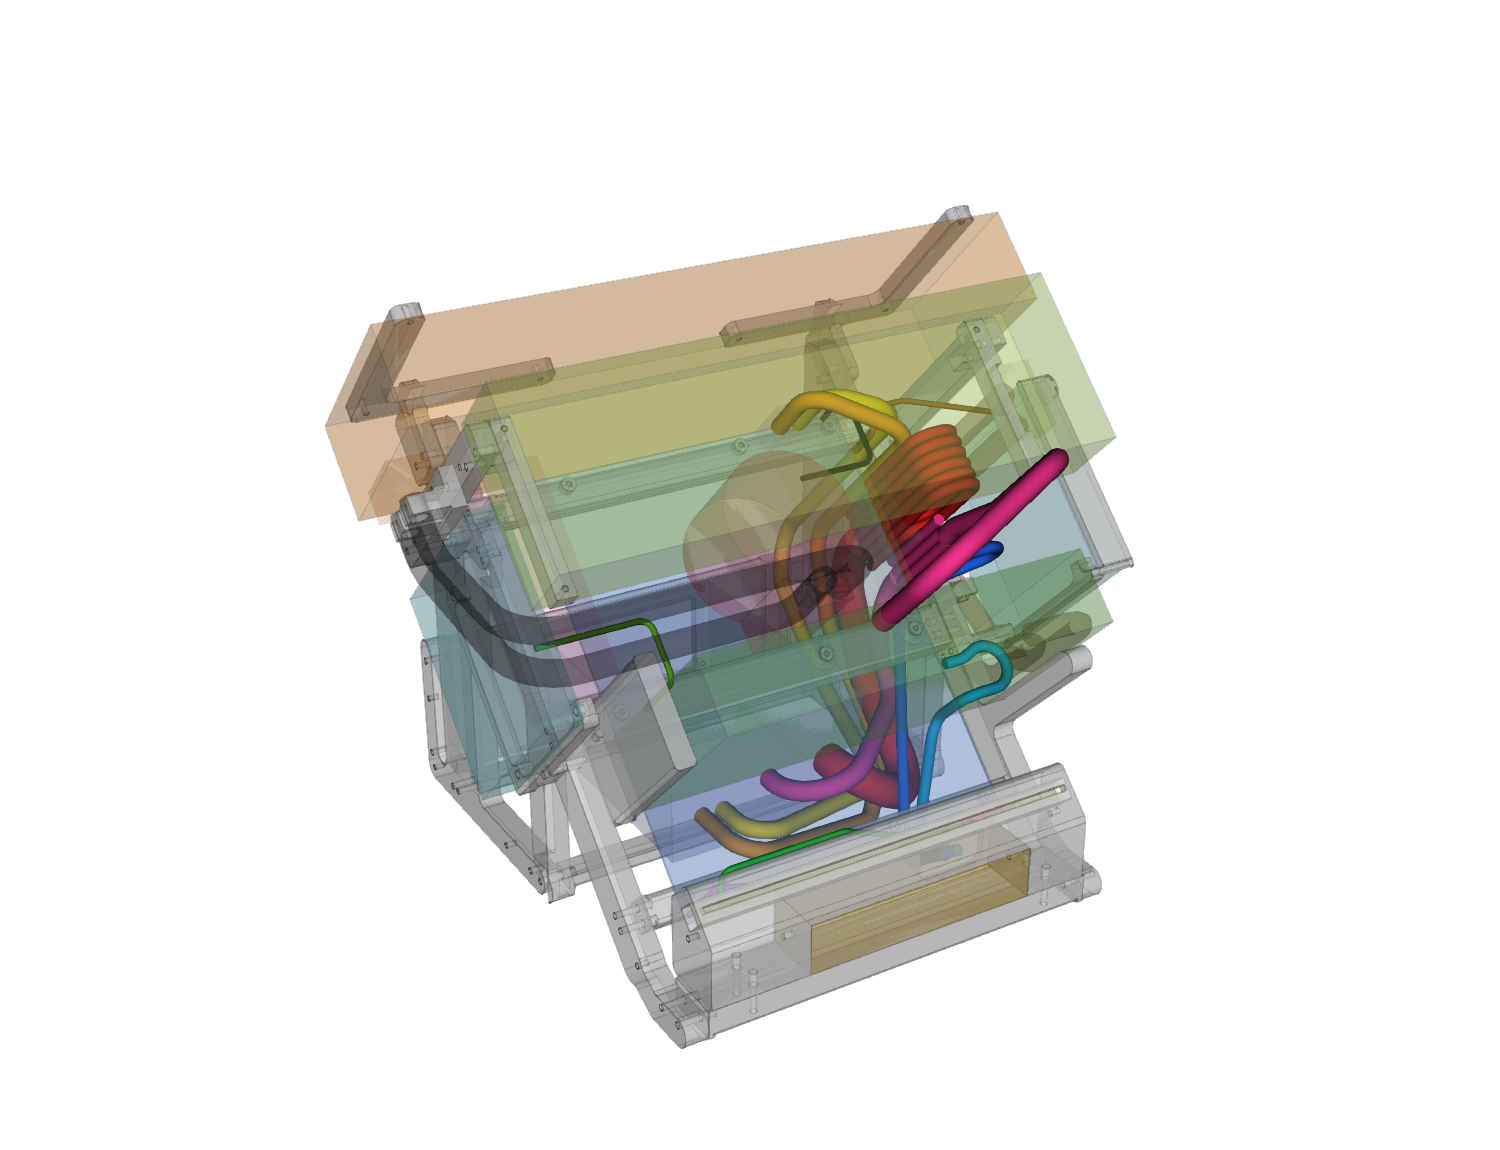
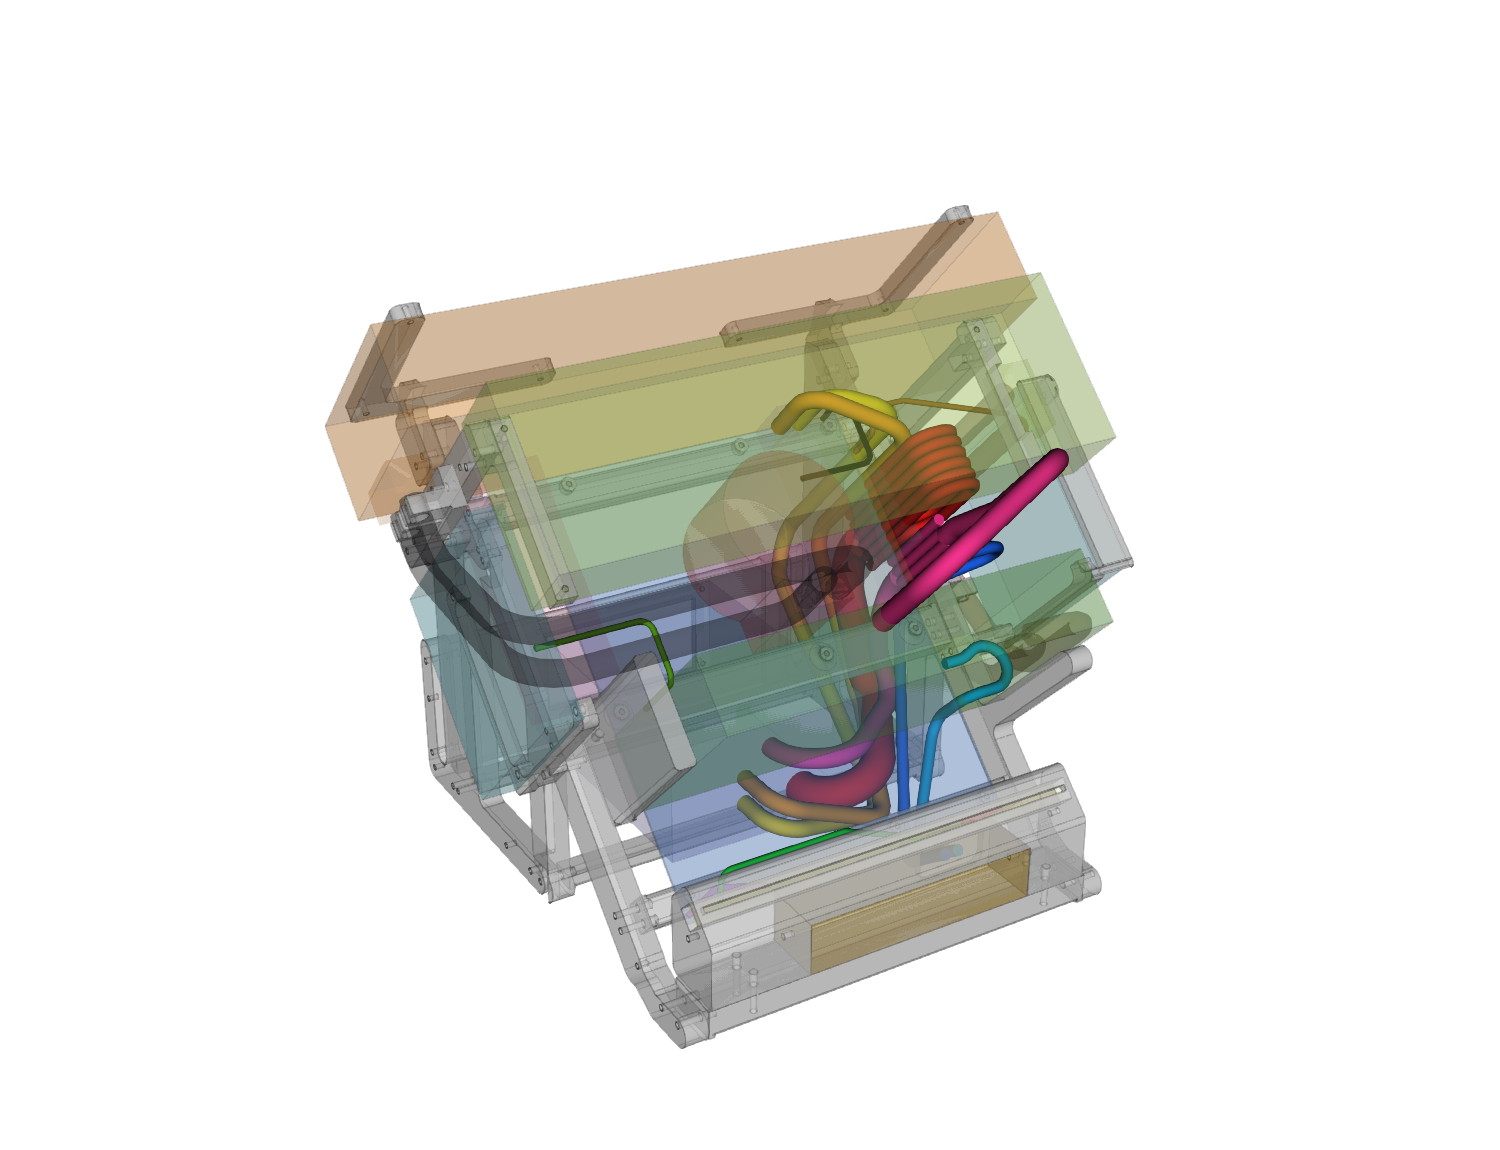
Use the PSU sockets nearest the right edge
The PSU's socket field is read off a straight-on photo. With the two
EPS cables on the nearest CPU/PCIe sockets and the 12V-2x6 on the upper
of its two, the smallest spare length rises from 8 to 30 mm. Every
cable check passes.

Changed region(s): [[0.46, 0.6087, 0.6133, 0.7609], [0.5213, 0.5174, 0.552, 0.5478]]

diff --git a/cad_b6/cables.py b/cad_b6/cables.py
@@ -42,7 +42,7 @@ END_TOL = 5.0                              # a route's end may be this far from 
 V_GAP = hw.x_to_v(131.5)                   # the gap's v: the board's edge is X 122 and the rib's X 142; here 9.5 / 10.5 mm from them, so that r 6 and r 7 keep 3.5 mm from both
 V_IN = hw.x_to_v(113.0)                    # the lane under the board, inboard of the ribs (the r 12 ATX cable must stay 15 mm from X 142)
 LANE_N = {"usb3": -41.0, "gpu12v": -57.5, "atx24": -85.0, "eps1": -106.0, "eps2": -147.5}   # search: levels of the lanes at v 235: the cable that rises first lies on top, the next one under it by the two radii and air; USB 3 under beam_low (n -30) with r 4, EPS 2 above the desk (Z -15)
-SHIFT_DEG = {"gpu12v": 22.5, "atx24": 12.0, "eps1": 15.0, "eps2": 27.0}   # search: angle of the diagonal that moves a lane cable from v 235 to the gap (it sets where each cable crosses the others)
+SHIFT_DEG = {"gpu12v": 24.0, "atx24": 12.0, "eps1": 8.5, "eps2": 29.5}   # search: angle of the diagonal that moves a lane cable from v 235 to the gap (it sets where each cable crosses the others); third pass: the diagonal is also where a PSU cable leaves its straight run to the lane, so a small angle is a long gentle ramp
 
 # The u of each cable where it passes the gap, in the order USB 3, 12V-2x6, ATX, EPS 1, EPS 2. The spec has 12V-2x6 first: that cannot be, JUSB3 is at u 160 and
 # USB 3 would have to cross the 12V slab (u 167..199, n up to 53, and the round cable above it) to reach it. The window is u 158 (beam_mid, u 155, + 3 + r 4)
@@ -215,11 +215,11 @@ def psu_lead(name, theta):
 
 # ---- the numbers of each route (board space unless said) ----
 # PSU cables: out of the socket OUT_LEG mm along -Y, round the PSU's right front corner through WAY_* (EPS only), to the lane's start at u U_IN, then the lane.
-U_IN = {"atx24": 45.0, "gpu12v": 113.0, "eps1": 81.0, "eps2": 154.0}     # search: u at which a PSU cable reaches its lane (the plan's 45 for the ATX cable)
-OUT_LEG = {"atx24": 45.0, "gpu12v": 80.5, "eps1": 60.5, "eps2": 45.0}   # the plan's 45 mm along -Y; search: the 12V-2x6 80.5 (it is 17 mm short of its 700 mm at that, 25 mm more and it would be over), EPS 1 60.5 (it passes EPS 2's first leg in front)
-WAY_X = {"eps1": 70.5, "eps2": 86.0}       # search: world X, Y, Z of the point where an EPS cable passes the PSU's right front corner (X 75, Y 165): the straight way to the lane cuts the PSU
-WAY_Y = {"eps1": 145.0, "eps2": 157.5}
-WAY_Z = {"eps1": -2.5, "eps2": 16.0}
+U_IN = {"atx24": 120.0, "gpu12v": 113.5, "eps1": 123.0, "eps2": 233.0}   # third-pass search: u at which a PSU cable reaches its lane (EPS 2's 233 lies on the diagonal's own ramp: the cable meets its lane only just before the gap)
+OUT_LEG = {"atx24": 103.0, "gpu12v": 72.5, "eps1": 45.0, "eps2": 45.0}   # third-pass search; the plan's 45 mm along -Y is the lower bound for every cable (ATX 103: the shortest way to its lane starts out along -Y)
+WAY_X = {"eps1": 68.0, "eps2": 81.5}       # third-pass search: world X, Y, Z of the point where an EPS cable passes the PSU's right front corner (X 75, Y 165): the straight way to the lane cuts the PSU
+WAY_Y = {"eps1": 123.0, "eps2": 146.5}
+WAY_Z = {"eps1": 11.0, "eps2": 0.0}
 
 # 12V-2x6: from the socket's mouth along +n (plug 13 + straight 35), one arch in the vertical plane through the socket and the descent, down the gap.
 GPU12V_TOP_N = 220.0                       # top of the arch: mouth n 137 + plug 13 + straight 35 + the first bend's radius 35 (the arch cannot be lower)
@@ -524,7 +524,8 @@ def facts_section(routes):
            f"  plug {hw.GPU12V_PLUG:g} mm out of the mouth (assumption), straight {hw.GPU12V_STRAIGHT:g} mm from the plug's back; radius {hw.CABLES['gpu12v'][1]:g}, bend {hw.CABLES['gpu12v'][2]:g}",
            f"  slabs: strands r {hw.SLAB_STRAND_R:g}, pitch {hw.SLAB_PITCH:g}, bend {hw.SLAB_BEND:g}; ATX {hw.CABLE_SLAB['atx24']} strands, 12V-2x6 {hw.CABLE_SLAB['gpu12v']} strands (assumptions)",
            f"  USB-C: lying plug {hw.LYING_PLUG['length']:g} x {hw.LYING_PLUG['thick']:g} mm (assumption); the card counts from n {hw.GPU_UNDERSIDE_N:g} up for this route only (assumption; the owner confirmed the port works under this card today)",
-           f"  PSU sockets (inferred from a photo, not checked): " + ", ".join(f"{k} X {v[0]:g} Z {v[2]:g}" for k, v in hw.PSU_SOCKETS.items()) + f" on the face Y {hw.PSU_W[2]:g}",
+           f"  PSU sockets (read off a photo of the modular face, +-3 mm in X, +-5 mm in Z, not measured; hardware.PSU_SOCKET_FIELD): " + ", ".join(f"{k} = {hw.PSU_SOCKET_USE[k]} X {v[0]:g} Z {v[2]:g}" for k, v in hw.PSU_SOCKETS.items()) + f" on the face Y {hw.PSU_W[2]:g}",
+           "  the ATX 24-pin cable really ends in two plugs side by side at the PSU (the 10-pin and the 18-pin, X -5 to 56); it is modelled as one round bundle from the field's centre (X 26): a simplification",
            "  radii and bends of every other cable: hardware.CABLES (assumptions)",
            ""]
     rt = routes["gpu12v"]

diff --git a/cad_b6/hardware.py b/cad_b6/hardware.py
@@ -296,12 +296,20 @@ HEADERS = {
 }
 HEADER_TOP_N = 12.0                       # ASSUMPTION: a header stands 12 mm proud of the board (plan)
 
-# Sockets on the PSU's modular face (Y = PSU_W[2]), world (X, Y, Z). STANDING: INFERRED from a photo taken fan down, NOT CHECKED. Seen from
-# the front with the fan up: the CPU/PCIe field on the left (-X), the two 12V-2x6 in the centre, the motherboard pair on the right (+X).
-# The positions are the plan's, only the side is read off the photo.
-PSU_SOCKETS = {
-    "mb": (48.0, PSU_W[2], 43.0), "eps1": (-52.0, PSU_W[2], 30.0), "eps2": (-36.0, PSU_W[2], 30.0), "gpu": (0.0, PSU_W[2], 43.0),
+# The PSU's modular face (Y = PSU_W[2]), every socket, world (X, Y, Z). STANDING: READ OFF A PHOTO (refs/psu_tx1600_modular_face.jpg, a straight-on photo
+# from the Vortez review, local only), NOT MEASURED: +-3 mm in X, +-5 mm in Z. The photo is taken label side up, so fan down; the PSU stands fan up in the
+# case and the photo is turned half a turn. Seen from the front of the case, fan up: the CPU/PCIe field on the left (-X), the two 12V-2x6 in the middle,
+# the motherboard pair and the peripheral sockets on the right (+X). Scale in the photo: 9.73 px/mm across the 150 mm face, 6.9 px/mm over its 86 mm height.
+# "mb" is the centre of two sockets side by side (a 10-pin and an 18-pin, X -5 to 56, Z 28); the 24-pin cable ends in both. The six peripheral sockets
+# (X about 10 to 55, Z 49 and 67) are not used and not listed.
+PSU_SOCKET_FIELD = {
+    "mb": (26.0, PSU_W[2], 28.0),
+    **{f"cpu_c{c}r{r}": (x, PSU_W[2], z) for c, x in enumerate((-19.0, -37.0, -55.0), 1) for r, z in enumerate((29.0, 49.0, 67.0), 1)},   # nine 8-pin, an EPS cable fits any
+    "gpu_z49": (1.5, PSU_W[2], 49.0), "gpu_z67": (1.5, PSU_W[2], 67.0),                                                                      # the two 12V-2x6
 }
+# The sockets in use: cable -> key in PSU_SOCKET_FIELD. Chosen in cad_b6/cables.py for the shortest routes that pass every check (reason in report_cables.txt).
+PSU_SOCKET_USE = {"mb": "mb", "eps1": "cpu_c1r2", "eps2": "cpu_c1r1", "gpu": "gpu_z67"}
+PSU_SOCKETS = {k: PSU_SOCKET_FIELD[v] for k, v in PSU_SOCKET_USE.items()}
 
 # Cables: name -> (real length in mm or None, radius, minimum bend radius). STANDING: lengths of the PSU's own cables are Seasonic's spec
 # sheet (ATX 24-pin 610, EPS 700, 12V-2x6 700); "None" = unknown (front I/O cables of the Fractal North XL, the ARCTIC PWM lead, the light line,

diff --git a/docs/plans/cables-and-organic.md b/docs/plans/cables-and-organic.md
@@ -216,7 +216,7 @@ Every bend is at its minimum or above. No two routes overlap; the closest pairs 
 - The right side fan's lead crosses the board's edge at u 287, beyond EPS 2. The first pass's route ran into the new ATX and EPS hooks.
 - Two checks were added: a PSU cable keeps 3 mm from the PSU after its socket leg, and the 12V-2x6 keeps 3 mm from the card after its first bend.
 
-**Margins that are inside the model's error.** EPS 1 has 8 mm to spare, the 12V-2x6 16 mm and EPS 2 17 mm. The PSU's socket positions are inferred from a photo and the 12V socket from a render, so these three are not proven. Next: read the PSU's modular face from a photo and choose the sockets nearest the right edge.
+**Margins that were inside the model's error.** EPS 1 had 8 mm to spare, the 12V-2x6 16 mm and EPS 2 17 mm. Settled later the same day: see "The PSU's modular face" below.
 
 What the skeleton has to provide is listed with coordinates at the end of `cad_b6/report_cables.txt`: the sill slot (USB 3 at X 60, USB-C at X 70, power switch X 82, audio X 48, light line X -125), no rail notch, and the clip points.
 
@@ -279,8 +279,17 @@ Seen from the front of the case, fan up, world X and Z on the face Y 165:
 
 Against the model's old numbers: `mb` was (48, 43), now (26, 28); `eps1` and `eps2` were (-52, 30) and (-36, 30), which are two real sockets of the bottom row; `gpu` was (0, 43), the real ones are at Z 49 and 67.
 
-**Task (third cable pass, leads only):** put the field into `hardware.py` (`PSU_SOCKET_FIELD`, with its standing), let `PSU_SOCKETS` name the sockets in use, and choose them for the shortest routes that pass every check: the two EPS cables from the nine CPU/PCIe sockets, the 12V-2x6 from its two. Re-find the lead way-points of the four PSU cables. The aim is spare length: EPS 1 has 8 mm now, the 12V-2x6 16 mm, EPS 2 17 mm. Nothing else in the routes changes unless a check forces it.
+**Third cable pass, built (15 Nov 2026).** `hardware.PSU_SOCKET_FIELD` holds the field, `PSU_SOCKET_USE` names the sockets in use. Checked in the main session: `cables.py` exits 0 with no failed check; `test_checks.py` 108 of 108 (the subagent's run).
+
+| Cable | Socket (X, Z) | Route before, after | Real | Spare before, after |
+|---|---|---|---|---|
+| ATX 24-pin | MB (26, 28) | 532, 517 | 610 | 78, 93 |
+| 12V-2x6 | upper 12V-2x6 (1.5, 67) | 684, 670 | 700 | 16, 30 |
+| EPS 1 | CPU/PCIe column 1, row 2 (-19, 49) | 692, 649 | 700 | 8, 51 |
+| EPS 2 | CPU/PCIe column 1, row 1 (-19, 29) | 683, 669 | 700 | 17, 31 |
+
+The smallest spare is 30 mm now. That is more than the photo's error, but the 12V-2x6 socket on the card is still good only to about 12 mm, so its 30 mm is not a wide margin until the ruler measurement. The lanes, the order in the gap and everything above the board are unchanged. The ATX cable really ends in two plugs side by side (X -5 to 56); it is modelled as one round bundle from their centre.
 
 ### Next
 
-Read the PSU's modular face from a photo and choose the sockets nearest the right edge, then nylon clips and their insert pilots. Split the organic layer into printable pieces.
+Nylon clips for the cables and their insert pilots. Split the organic layer into printable pieces. Rerun the organic strength check when the gaming PC is back in Linux.
